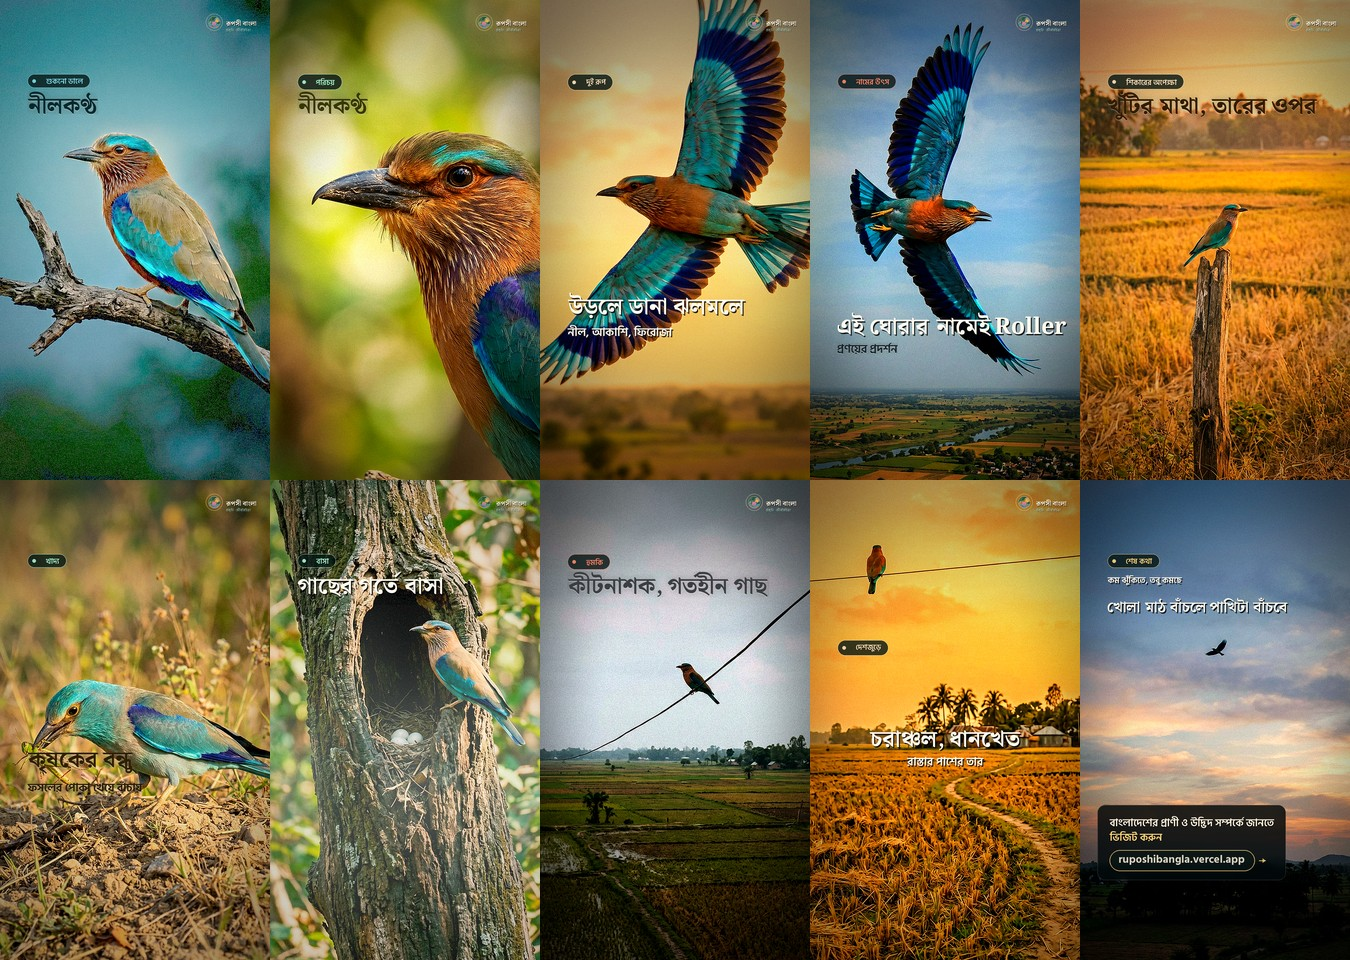
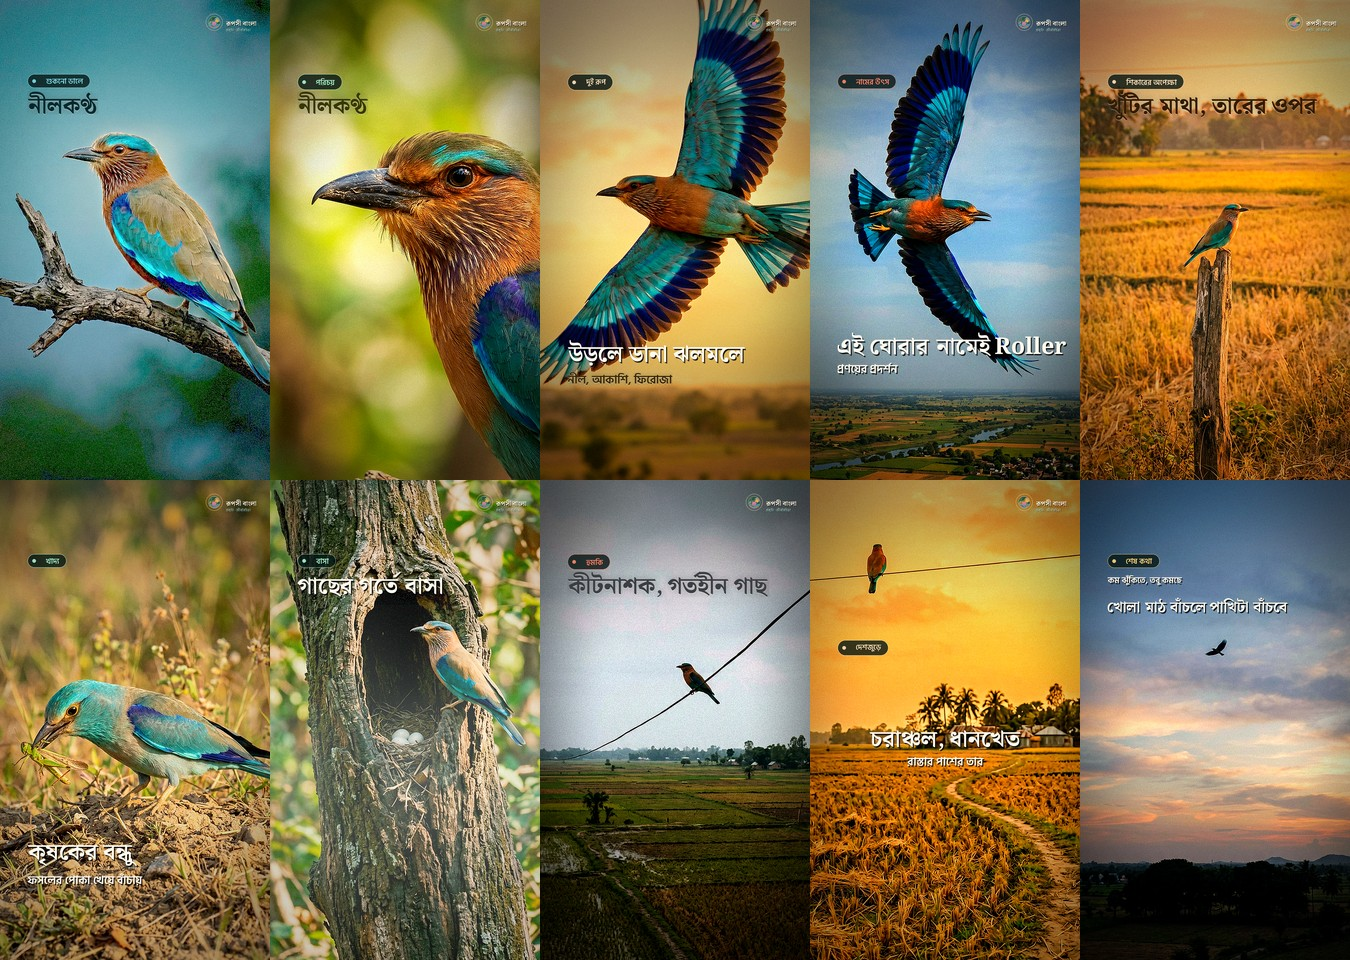
নীলকণ্ঠ রিল v1: ১:৪৮.৫৩, ৬৮ MB, ১০৮০×১৯২০ · প্লেসমেন্ট ক্যাশ ফিক্স (৭.৪s → ০.৩s/ফ্রেম)

diff --git a/.studio/v3/build_nil.py b/.studio/v3/build_nil.py
@@ -508,6 +508,9 @@ def _plate(s):
     return plates
 
 
+_PLACED = {}
+
+
 def placed_beats(s):
     """BEATS rows, with the lower block moved to the quietest readable strip.
 
@@ -515,12 +518,16 @@ def placed_beats(s):
     lines can never collide, and the block is slid as a unit to the place where
     the type has the most contrast, the least detail and no bird under it.
     """
+    hit = _PLACED.get(s["id"])
+    if hit is not None:
+        return hit
     rows = layout_beats(s["id"])
     plates = _plate(s)
     top_rows, low_rows = [], []
     for r in rows:
         (top_rows if r[0] == 0 else low_rows).append(r)
     if not low_rows:
+        _PLACED[s["id"]] = rows
         return rows
     rows2 = sorted(low_rows, key=lambda r: (r[0], r[4]))
     wid, hgt = 0, 0
@@ -547,6 +554,7 @@ def placed_beats(s):
         lay = T.flow(txt, key, px)
         out.append((i, style, txt, c, int(yy), al))
         yy += lay.image.height + 26
+    _PLACED[s["id"]] = out
     return out
 
 
